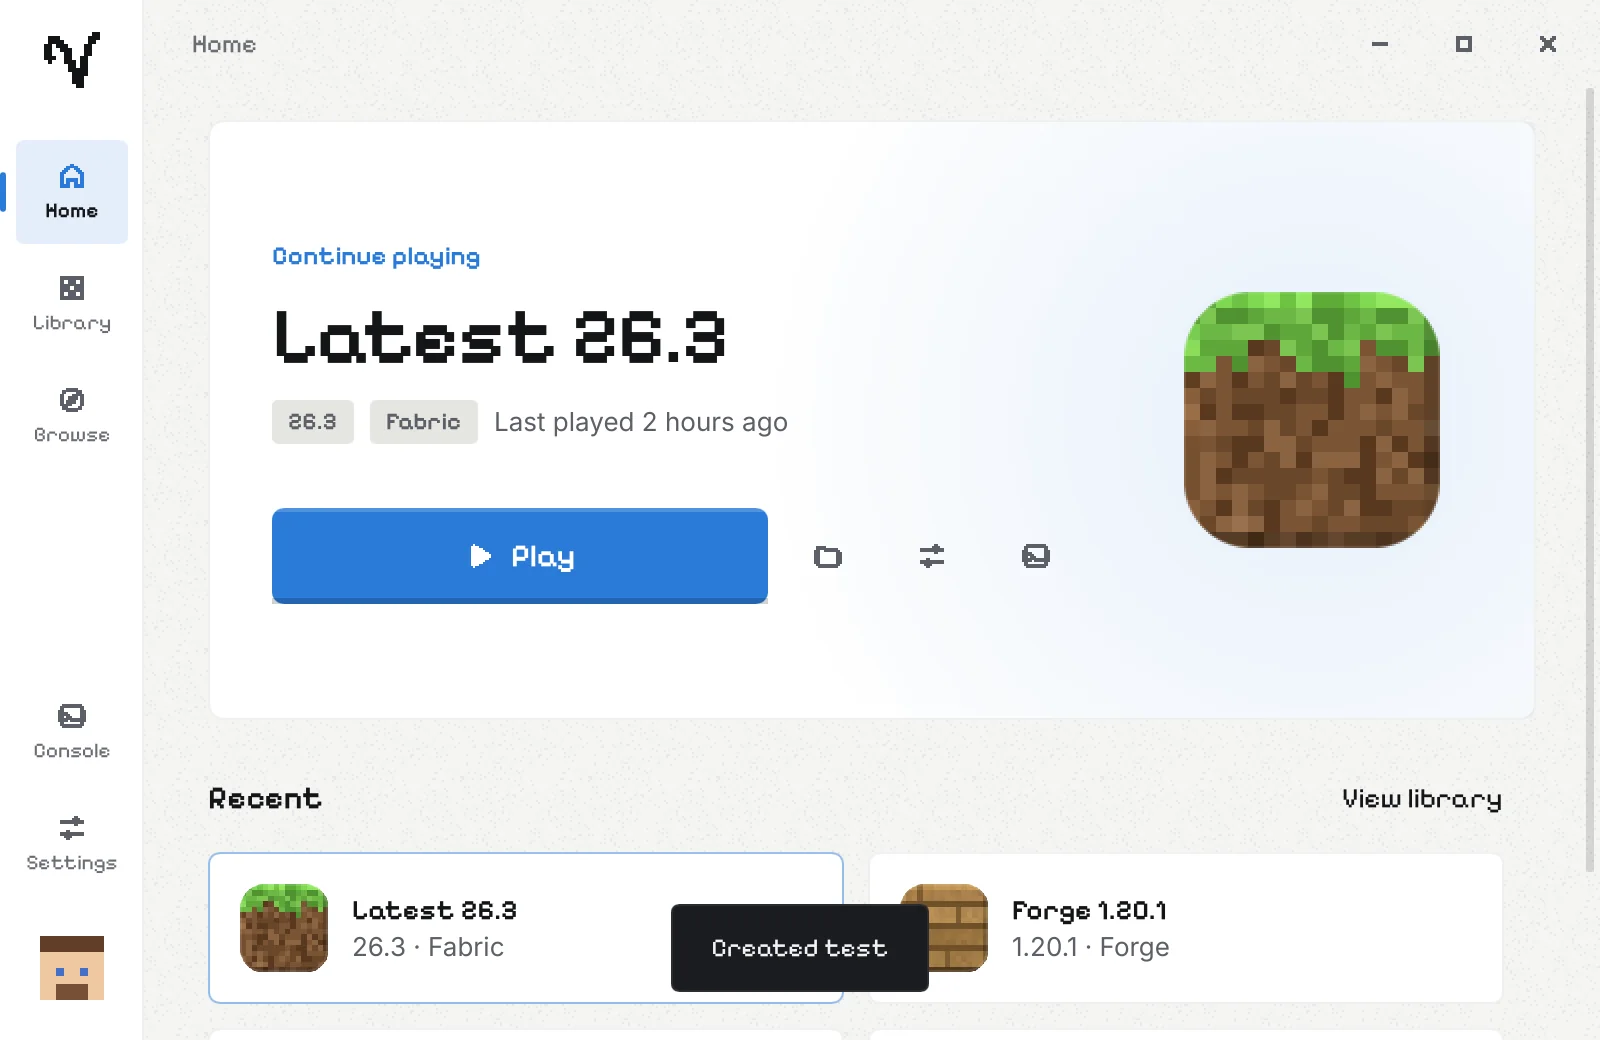
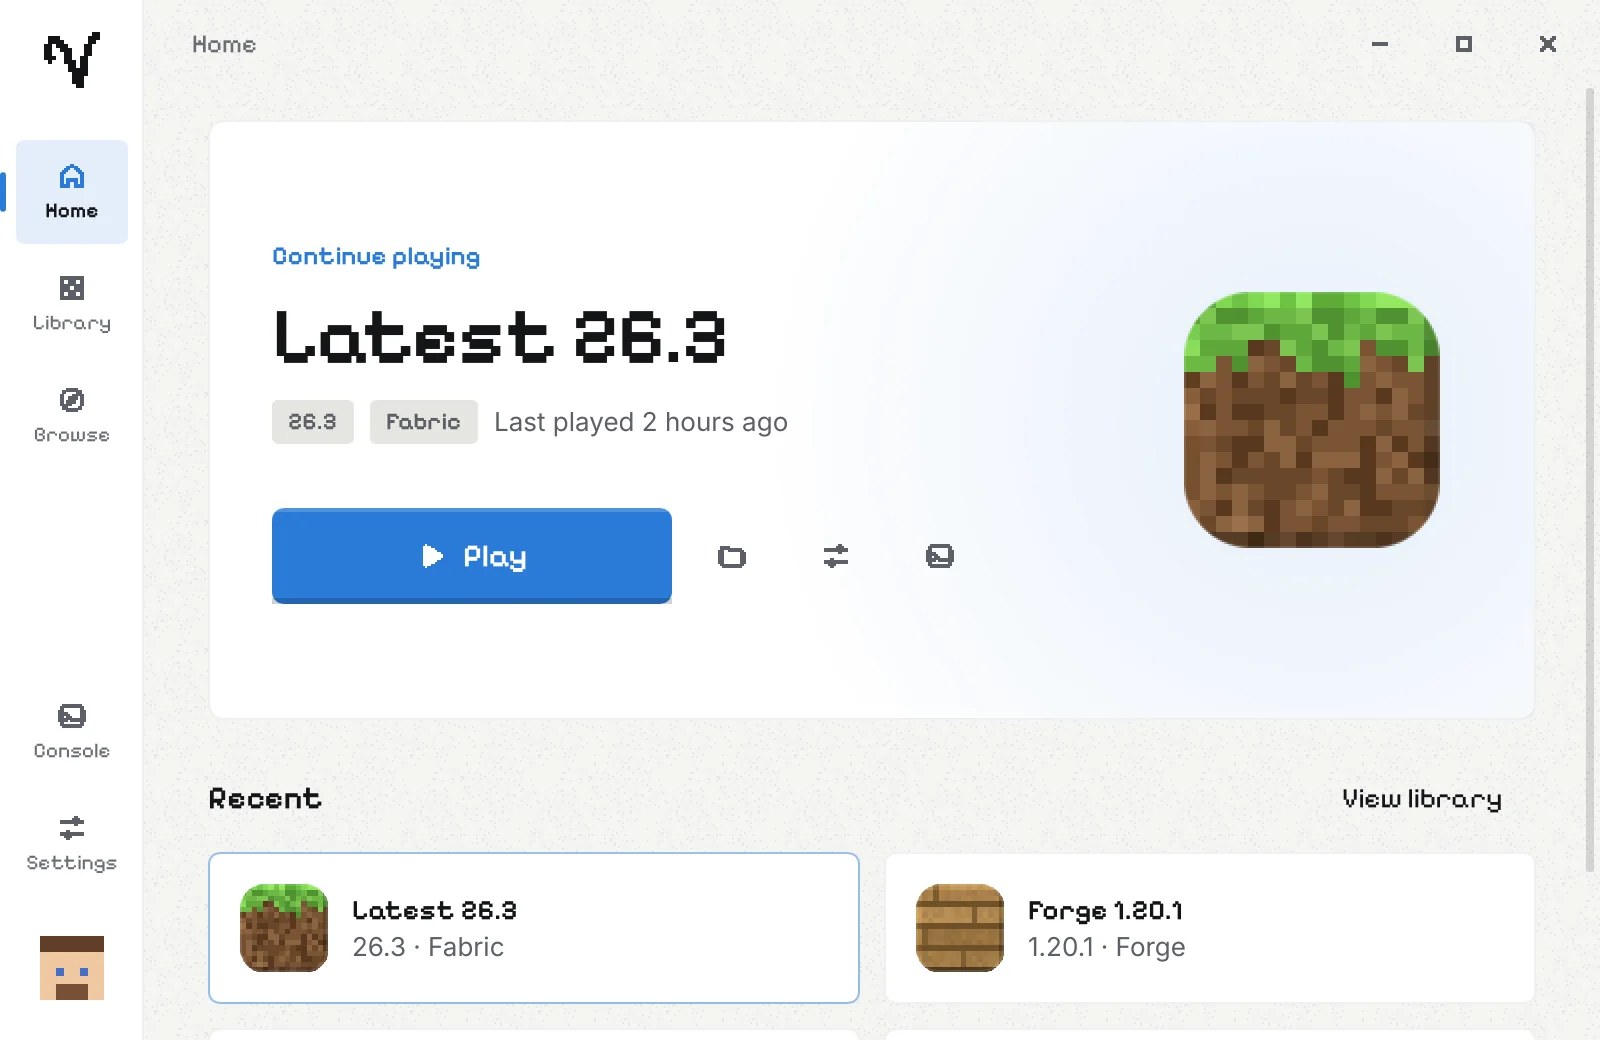
docs(web): refresh screenshots

diff --git a/web/index.html b/web/index.html
@@ -7,9 +7,9 @@
   <meta name="description" content="Vanta is a free, open-source launcher for Minecraft: Java Edition. Native, tiny, instant. Fabric, Quilt, Forge, NeoForge and Modrinth built in. No telemetry.">
   <meta name="theme-color" content="#0b0c0e">
   <link rel="canonical" href="https://getvanta.xyz/">
-  <link rel="icon" href="favicon.ico?v=0.1.8b" sizes="any">
-  <link rel="icon" href="assets/favicon-32.png?v=0.1.8b" sizes="32x32" type="image/png">
-  <link rel="apple-touch-icon" href="assets/apple-touch-icon.png?v=0.1.8b">
+  <link rel="icon" href="favicon.ico?v=0.1.11a" sizes="any">
+  <link rel="icon" href="assets/favicon-32.png?v=0.1.11a" sizes="32x32" type="image/png">
+  <link rel="apple-touch-icon" href="assets/apple-touch-icon.png?v=0.1.11a">
   <meta property="og:site_name" content="Vanta">
   <meta property="og:title" content="Vanta — the Minecraft launcher that gets out of the way">
   <meta property="og:description" content="Free, open-source and tiny. Fabric, Forge, NeoForge and Quilt, Modrinth mods and modpacks, and Java handled for you. Windows and Linux, no telemetry.">
@@ -32,15 +32,15 @@
     if ("scrollRestoration" in history) history.scrollRestoration = "manual";
     if (!location.hash) window.scrollTo(0, 0);
   </script>
-  <link rel="stylesheet" href="assets/tokens.css?v=0.1.8b">
-  <link rel="stylesheet" href="assets/site.css?v=0.1.8b">
+  <link rel="stylesheet" href="assets/tokens.css?v=0.1.11a">
+  <link rel="stylesheet" href="assets/site.css?v=0.1.11a">
 </head>
 <body>
   <a class="skip" href="#main">Skip to content</a>
   <header class="nav">
     <div class="wrap nav-inner">
       <a class="brand" href="#" aria-label="Vanta home">
-        <img class="pixel" src="assets/logo-px.png?v=0.1.8b" width="28" height="28" alt="">
+        <img class="pixel" src="assets/logo-px.png?v=0.1.11a" width="28" height="28" alt="">
         <span>Vanta</span>
       </a>
       <nav id="site-nav" aria-label="Primary">
@@ -71,7 +71,7 @@
         </div>
         <p class="hint reveal" id="download-hint">Free forever. GPL-3.0.</p>
         <figure class="shot reveal">
-          <img src="assets/screenshots/home.webp?v=0.1.8b" width="800" height="520" alt="The Vanta home screen showing the featured instance and a Play button" fetchpriority="high">
+          <img src="assets/screenshots/home.webp?v=0.1.11a" width="800" height="520" alt="The Vanta home screen showing the featured instance and a Play button" fetchpriority="high">
         </figure>
       </div>
     </section>
@@ -79,14 +79,14 @@
     <section id="features" class="wrap section">
       <h2 class="reveal">Everything you need. Nothing you don't.</h2>
       <div class="grid">
-        <article class="card reveal"><img class="ico pixel" src="assets/blocks/glowstone.png?v=0.1.8b" width="40" height="40" alt=""><h3>Instant</h3><p>Native and GPU-rendered. Opens in a blink.</p></article>
-        <article class="card reveal"><img class="ico pixel" src="assets/blocks/planks.png?v=0.1.8b" width="40" height="40" alt=""><h3>Every loader</h3><p>Fabric, Quilt, Forge and NeoForge, kept up to date.</p></article>
-        <article class="card reveal"><img class="ico pixel" src="assets/blocks/emerald_ore.png?v=0.1.8b" width="40" height="40" alt=""><h3>Modrinth built in</h3><p>Mods, shaders and packs, with dependencies handled.</p></article>
-        <article class="card reveal"><img class="ico pixel" src="assets/blocks/tnt.png?v=0.1.8b" width="40" height="40" alt=""><h3>.mrpack in and out</h3><p>Import any modpack or share your own.</p></article>
-        <article class="card reveal"><img class="ico pixel" src="assets/blocks/gold_ore.png?v=0.1.8b" width="40" height="40" alt=""><h3>Java, handled</h3><p>The right Java, downloaded for you.</p></article>
-        <article class="card reveal"><img class="ico pixel" src="assets/blocks/grass.png?v=0.1.8b" width="40" height="40" alt=""><h3>Make it yours</h3><p>Pixel block icons and your own accent color.</p></article>
-        <article class="card reveal"><img class="ico pixel" src="assets/blocks/obsidian.png?v=0.1.8b" width="40" height="40" alt=""><h3>Private by design</h3><p>No telemetry. Signed updates that ask first.</p></article>
-        <article class="card reveal"><img class="ico pixel" src="assets/blocks/diamond_ore.png?v=0.1.8b" width="40" height="40" alt=""><h3>And more</h3><p>Crash reports, play time and offline accounts.</p></article>
+        <article class="card reveal"><img class="ico pixel" src="assets/blocks/glowstone.png?v=0.1.11a" width="40" height="40" alt=""><h3>Instant</h3><p>Native and GPU-rendered. Opens in a blink.</p></article>
+        <article class="card reveal"><img class="ico pixel" src="assets/blocks/planks.png?v=0.1.11a" width="40" height="40" alt=""><h3>Every loader</h3><p>Fabric, Quilt, Forge and NeoForge, kept up to date.</p></article>
+        <article class="card reveal"><img class="ico pixel" src="assets/blocks/emerald_ore.png?v=0.1.11a" width="40" height="40" alt=""><h3>Modrinth built in</h3><p>Mods, shaders and packs, with dependencies handled.</p></article>
+        <article class="card reveal"><img class="ico pixel" src="assets/blocks/tnt.png?v=0.1.11a" width="40" height="40" alt=""><h3>.mrpack in and out</h3><p>Import any modpack or share your own.</p></article>
+        <article class="card reveal"><img class="ico pixel" src="assets/blocks/gold_ore.png?v=0.1.11a" width="40" height="40" alt=""><h3>Java, handled</h3><p>The right Java, downloaded for you.</p></article>
+        <article class="card reveal"><img class="ico pixel" src="assets/blocks/grass.png?v=0.1.11a" width="40" height="40" alt=""><h3>Make it yours</h3><p>Pixel block icons and your own accent color.</p></article>
+        <article class="card reveal"><img class="ico pixel" src="assets/blocks/obsidian.png?v=0.1.11a" width="40" height="40" alt=""><h3>Private by design</h3><p>No telemetry. Signed updates that ask first.</p></article>
+        <article class="card reveal"><img class="ico pixel" src="assets/blocks/diamond_ore.png?v=0.1.11a" width="40" height="40" alt=""><h3>And more</h3><p>Crash reports, play time and offline accounts.</p></article>
       </div>
     </section>
 
@@ -106,12 +106,12 @@
     <section class="wrap section">
       <h2 class="reveal">A closer look</h2>
       <div class="gallery reveal">
-        <figure><img src="assets/screenshots/library.webp?v=0.1.8b" width="800" height="520" loading="lazy" alt="Library with instance cards"><figcaption>Library</figcaption></figure>
-        <figure><img src="assets/screenshots/browse.webp?v=0.1.8b" width="800" height="520" loading="lazy" alt="Browsing mods from Modrinth"><figcaption>Browse Modrinth</figcaption></figure>
-        <figure><img src="assets/screenshots/instance.webp?v=0.1.8b" width="800" height="520" loading="lazy" alt="Instance page with installed mods"><figcaption>Manage content</figcaption></figure>
-        <figure><img src="assets/screenshots/launching.webp?v=0.1.8b" width="800" height="520" loading="lazy" alt="Play button filling with live download progress"><figcaption>Live progress</figcaption></figure>
-        <figure><img src="assets/screenshots/project.webp?v=0.1.8b" width="800" height="520" loading="lazy" alt="Mod details inside Vanta"><figcaption>Install in one click</figcaption></figure>
-        <figure><img src="assets/screenshots/home-light.webp?v=0.1.8b" width="800" height="520" loading="lazy" alt="Vanta in the light theme"><figcaption>Light theme</figcaption></figure>
+        <figure><img src="assets/screenshots/library.webp?v=0.1.11a" width="800" height="520" loading="lazy" alt="Library with instance cards"><figcaption>Library</figcaption></figure>
+        <figure><img src="assets/screenshots/browse.webp?v=0.1.11a" width="800" height="520" loading="lazy" alt="Browsing mods from Modrinth"><figcaption>Browse Modrinth</figcaption></figure>
+        <figure><img src="assets/screenshots/instance.webp?v=0.1.11a" width="800" height="520" loading="lazy" alt="Instance page with installed mods"><figcaption>Manage content</figcaption></figure>
+        <figure><img src="assets/screenshots/launching.webp?v=0.1.11a" width="800" height="520" loading="lazy" alt="Play button filling with live download progress"><figcaption>Live progress</figcaption></figure>
+        <figure><img src="assets/screenshots/project.webp?v=0.1.11a" width="800" height="520" loading="lazy" alt="Mod details inside Vanta"><figcaption>Install in one click</figcaption></figure>
+        <figure><img src="assets/screenshots/home-light.webp?v=0.1.11a" width="800" height="520" loading="lazy" alt="Vanta in the light theme"><figcaption>Light theme</figcaption></figure>
       </div>
     </section>
 
@@ -142,27 +142,27 @@
     </section>
     <div class="wrap hotbar-end">
       <div class="hotbar reveal" aria-hidden="true">
-        <span class="slot on"><img class="pixel" src="assets/blocks/grass.png?v=0.1.8b" width="16" height="16" alt=""></span>
-        <span class="slot"><img class="pixel" src="assets/blocks/dirt.png?v=0.1.8b" width="16" height="16" alt=""></span>
-        <span class="slot"><img class="pixel" src="assets/blocks/stone.png?v=0.1.8b" width="16" height="16" alt=""></span>
-        <span class="slot"><img class="pixel" src="assets/blocks/oak_log.png?v=0.1.8b" width="16" height="16" alt=""></span>
-        <span class="slot"><img class="pixel" src="assets/blocks/planks.png?v=0.1.8b" width="16" height="16" alt=""></span>
-        <span class="slot"><img class="pixel" src="assets/blocks/diamond_ore.png?v=0.1.8b" width="16" height="16" alt=""></span>
-        <span class="slot"><img class="pixel" src="assets/blocks/gold_ore.png?v=0.1.8b" width="16" height="16" alt=""></span>
-        <span class="slot"><img class="pixel" src="assets/blocks/tnt.png?v=0.1.8b" width="16" height="16" alt=""></span>
-        <span class="slot"><img class="pixel" src="assets/blocks/glowstone.png?v=0.1.8b" width="16" height="16" alt=""></span>
+        <span class="slot on"><img class="pixel" src="assets/blocks/grass.png?v=0.1.11a" width="16" height="16" alt=""></span>
+        <span class="slot"><img class="pixel" src="assets/blocks/dirt.png?v=0.1.11a" width="16" height="16" alt=""></span>
+        <span class="slot"><img class="pixel" src="assets/blocks/stone.png?v=0.1.11a" width="16" height="16" alt=""></span>
+        <span class="slot"><img class="pixel" src="assets/blocks/oak_log.png?v=0.1.11a" width="16" height="16" alt=""></span>
+        <span class="slot"><img class="pixel" src="assets/blocks/planks.png?v=0.1.11a" width="16" height="16" alt=""></span>
+        <span class="slot"><img class="pixel" src="assets/blocks/diamond_ore.png?v=0.1.11a" width="16" height="16" alt=""></span>
+        <span class="slot"><img class="pixel" src="assets/blocks/gold_ore.png?v=0.1.11a" width="16" height="16" alt=""></span>
+        <span class="slot"><img class="pixel" src="assets/blocks/tnt.png?v=0.1.11a" width="16" height="16" alt=""></span>
+        <span class="slot"><img class="pixel" src="assets/blocks/glowstone.png?v=0.1.11a" width="16" height="16" alt=""></span>
       </div>
     </div>
   </main>
 
   <footer class="footer">
     <div class="wrap footer-inner">
-      <div class="brand"><img class="pixel" src="assets/logo-px.png?v=0.1.8b" width="24" height="24" alt=""><span>Vanta</span></div>
+      <div class="brand"><img class="pixel" src="assets/logo-px.png?v=0.1.11a" width="24" height="24" alt=""><span>Vanta</span></div>
       <p class="footer-tag">Open source · No telemetry · Windows &amp; Linux</p>
       <p>NOT AN OFFICIAL MINECRAFT PRODUCT. NOT APPROVED BY OR ASSOCIATED WITH MOJANG OR MICROSOFT. Vanta downloads game files from official sources and never redistributes them.</p>
       <p><a href="https://github.com/Inpriv/vanta">GitHub</a> · <a href="https://github.com/Inpriv/vanta/blob/main/LICENSE">GPL-3.0-or-later</a> · <a href="https://github.com/Inpriv/vanta/blob/main/SECURITY.md">Security</a></p>
     </div>
   </footer>
-  <script src="assets/site.js?v=0.1.8b" defer></script>
+  <script src="assets/site.js?v=0.1.11a" defer></script>
 </body>
 </html>

diff --git a/crates/vanta-app/examples/screenshots.rs b/crates/vanta-app/examples/screenshots.rs
@@ -377,7 +377,7 @@ fn main() {
             (width() as f32 * SCALE) as usize,
             (height() as f32 * SCALE) as usize,
         );
-        for ms in [200u64, 450, 700, 950] {
+        for ms in [120u64, 240, 360, 480, 640, 900] {
             while CLOCK.with(|c| c.get()) < Duration::from_millis(ms) {
                 CLOCK.with(|c| c.set(c.get() + Duration::from_millis(10)));
                 slint::platform::update_timers_and_animations();
